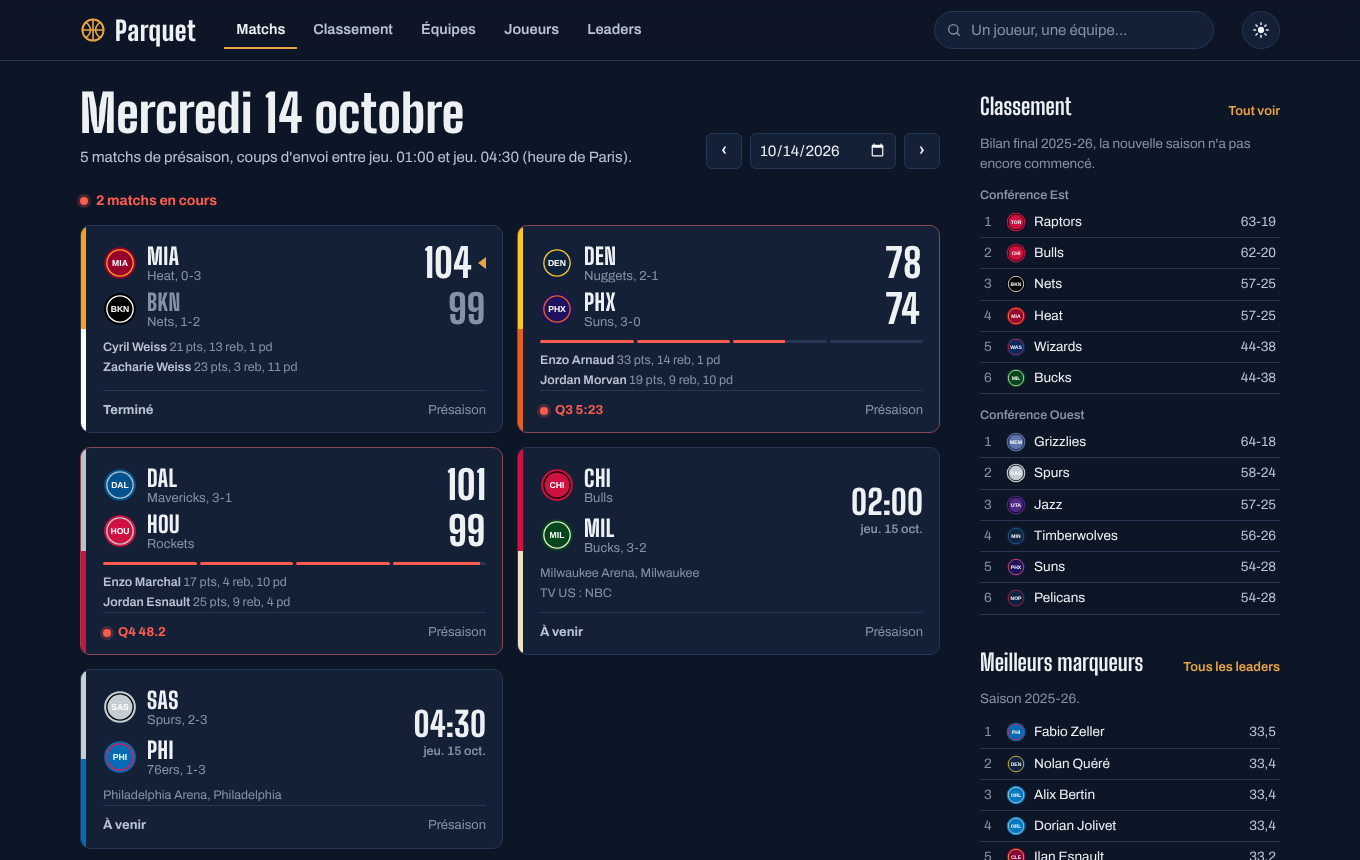
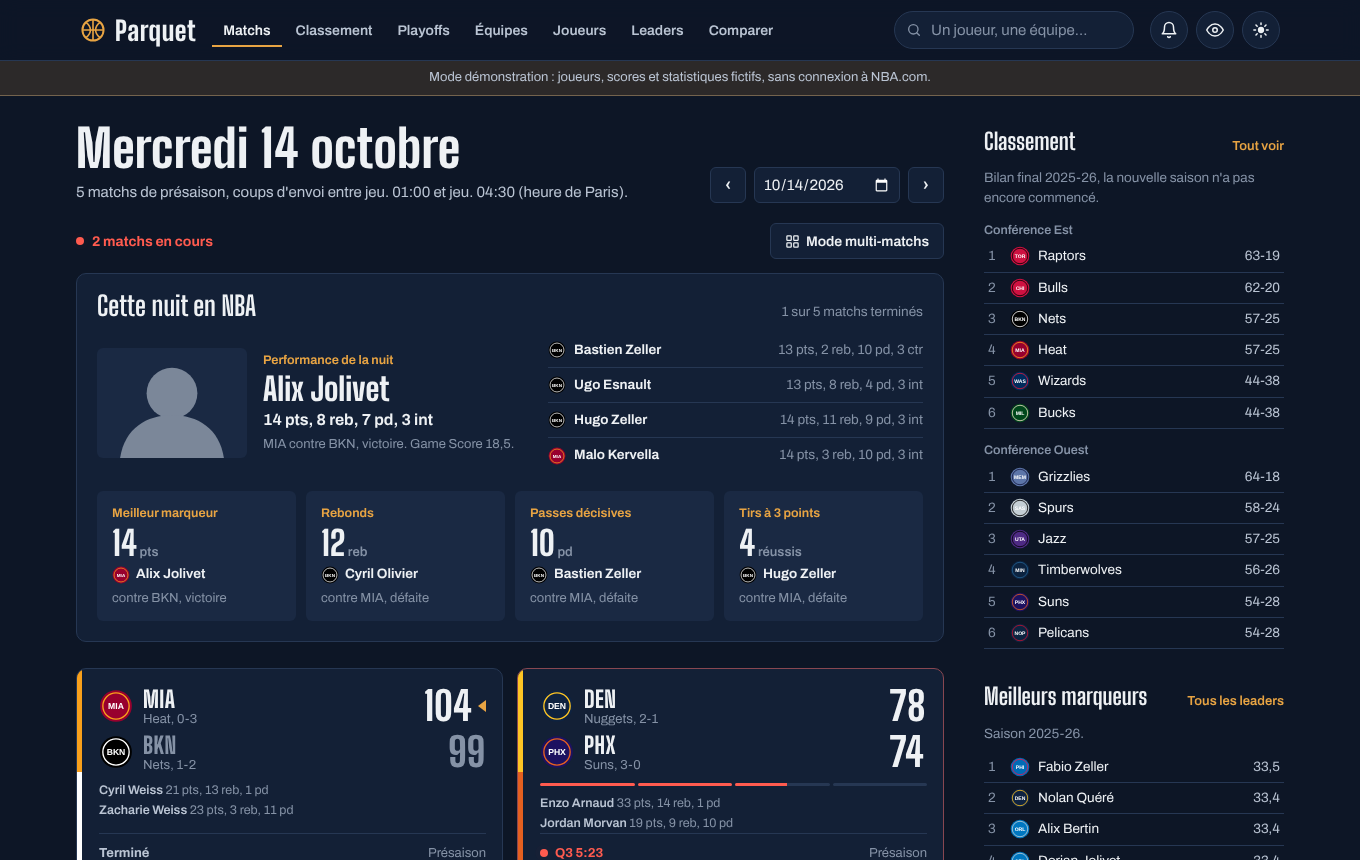
Documentation : README, guide et architecture à jour, nouvelles captures

diff --git a/README.md b/README.md
@@ -2,7 +2,9 @@
 
 **Un tableau de bord NBA en direct doublé d'une encyclopédie, en français, qui tourne sur ton ordinateur.**
 
-Parquet affiche les scores des matchs en temps réel, le détail de chaque rencontre (box score, fil des actions, carte des tirs) et une fiche complète pour les 30 franchises et les plus de 5 000 joueurs passés par la NBA depuis 1946. Toutes les données viennent des sources publiques de NBA.com et de Wikipédia, sans compte ni clé d'API.
+Parquet affiche les scores des matchs en temps réel, le détail de chaque rencontre (box score, scénario du match, fil des actions, carte des tirs) et une fiche complète pour les 30 franchises et les plus de 5 000 joueurs passés par la NBA depuis 1946. Toutes les données viennent des sources publiques de NBA.com et de Wikipédia, sans compte ni clé d'API.
+
+Pour l'essayer sans connexion : `python run.py --demo` lance l'application sur des données fictives.
 
 ![Page des matchs avec deux rencontres en direct](docs/captures/01-matchs.png)
 
@@ -12,34 +14,43 @@ Parquet affiche les scores des matchs en temps réel, le détail de chaque renco
 
 **Suivi des matchs**
 - Scores de la journée rafraîchis automatiquement pendant les matchs, avec l'avancement de chaque quart-temps.
+- « Cette nuit en NBA » : au réveil, le résumé des matchs de la nuit (performance de la nuit selon le Game Score, meilleurs marqueurs, rebondeurs et passeurs, triples-doubles, match le plus serré, plus large victoire, prolongations).
 - Horaires convertis à l'heure de Paris, navigation de jour en jour jusque dans les saisons passées.
-- Page de match : score par quart-temps, duel statistique des deux équipes, meilleurs joueurs, box score complet, fil des actions filtrable et carte des tirs.
+- Page de match : score par quart-temps, scénario du match (courbe de l'écart au score, plus gros écarts, changements de leader), duel statistique des deux équipes, meilleurs joueurs, box score complet, fil des actions filtrable et carte des tirs.
+- Mode multi-matchs : plusieurs rencontres en direct côte à côte, en plein écran, avec les dernières actions et un signal des fins de match serrées.
 - Avant le coup d'envoi : forme récente des deux équipes. La page bascule seule en mode direct au début du match.
 
 **Encyclopédie et analyse**
 - Équipes : effectif, staff, calendrier, résumé historique, titres, maillots retirés, membres du Hall of Fame, victoires saison par saison.
-- Joueurs : recherche dans toute l'histoire de la ligue, filtres (équipe, poste, pays), biographie, palmarès, parcours, records, statistiques de carrière en graphique et en tableau, derniers matchs.
+- Équipes : export du calendrier de la saison au format `.ics`, à importer dans Google Agenda, Apple Calendrier ou Outlook.
+- Joueurs : recherche dans toute l'histoire de la ligue, filtres (équipe, poste, pays), biographie, palmarès, parcours, records, statistiques de carrière par match, sur 36 minutes ou en totaux, stats avancées (adresse réelle TS%, adresse effective eFG%, passes par balle perdue, part de tirs à 3 points), derniers matchs.
 - Comparateur de joueurs : duel face-à-face (carrière, saison actuelle, playoffs), comparaison détaillée des palmarès, courbes de trajectoire superposées saison par saison (S1, S2, ...) et sélection rapide de duels légendaires.
 - Tableau des playoffs : arbre complet de la post-saison NBA (1er tour, demi-finales, finales de conférence, Finales NBA), statut et avancement des séries (4-1, 4-2...), détail match par match avec scores, lien vers les box scores et sélecteur de saisons historiques.
 - Classement par conférence et leaders statistiques de la saison.
 
 **Confort et mobilité**
 - Recherche instantanée accessible partout (touche `/`).
-- Alertes et notifications en direct : notifications navigateur et toasts in-app pour le coup d'envoi et le score final des équipes favorites, ou lorsqu'un match entre dans le *Clutch Time* (écart ≤ 5 points au 4e quart-temps).
-- Mode anti-spoiler pour masquer les scores et regarder les matchs en différé sans révélation involontaire (révélation match par match ou globale).
-- Progressive Web App (PWA) : installable sur smartphone (iOS/Android) ou PC/Mac, icône d'application dédiée, affichage plein écran autonome, gestion des encoches et mise en cache locale des ressources statiques.
+- Alertes en direct, tant qu'un onglet Parquet est ouvert : coup d'envoi et résultat des équipes favorites, fins de match serrées selon la définition de la NBA (5 dernières minutes, 5 points d'écart ou moins). Notifications système quand la connexion le permet, alertes dans la page sinon ; une alerte n'est jamais envoyée deux fois.
+- Mode anti-spoiler pour regarder les matchs en différé : scores, box score, fil des actions, résumé de la nuit, champion des playoffs et alertes restent masqués jusqu'à ce qu'on les révèle, match par match ou d'un coup. Les révélations sont retenues pendant la session.
+- Progressive Web App (PWA) : installable sur ordinateur, et sur téléphone via une connexion sécurisée (voir le guide), fonctionnement hors ligne avec les dernières données connues.
 - Équipes favorites mises en avant, thème sombre ou clair adapté aux préférences système.
 - Page « État des sources » pour diagnostiquer un problème de connexion.
 
 ## Captures
 
-| Match en direct | Carte des tirs |
+| Cette nuit en NBA | Scénario du match |
 | --- | --- |
-| ![Résumé d'un match en direct](docs/captures/02-match-resume.png) | ![Carte des tirs des deux équipes](docs/captures/03-carte-des-tirs.png) |
-| **Statistiques d'un joueur** | **Classement** |
-| ![Courbe de carrière d'un joueur](docs/captures/04-fiche-joueur.png) | ![Classement de la conférence Est](docs/captures/05-classement.png) |
+| ![Résumé d'une journée de matchs](docs/captures/02-resume-de-la-nuit.png) | ![Courbe de l'écart au score d'un match](docs/captures/03-scenario-du-match.png) |
+| **Carte des tirs** | **Multi-matchs** |
+| ![Carte des tirs des deux équipes](docs/captures/04-carte-des-tirs.png) | ![Plusieurs matchs en direct côte à côte](docs/captures/05-multi-matchs.png) |
+| **Arbre des playoffs** | **Statistiques d'un joueur** |
+| ![Arbre complet des playoffs](docs/captures/06-playoffs.png) | ![Courbe de carrière et stats avancées d'un joueur](docs/captures/07-fiche-joueur.png) |
+| **Comparateur** | **Mode anti-spoiler** |
+| ![Face-à-face statistique de deux joueurs](docs/captures/08-comparateur.png) | ![Scores masqués sur la page des matchs](docs/captures/09-anti-spoiler.png) |
 | **Fiche d'équipe, thème clair** | **Sur téléphone** |
-| ![Fiche d'une équipe en thème clair](docs/captures/06-equipe-theme-clair.png) | <img src="docs/captures/07-mobile.png" alt="Page des matchs sur téléphone" width="260"> |
+| ![Fiche d'une équipe en thème clair](docs/captures/10-equipe-theme-clair.png) | <img src="docs/captures/11-mobile.png" alt="Page des matchs sur téléphone" width="260"> |
+
+Les captures sont générées automatiquement à partir du mode démo : `python scripts/captures.py`.
 
 ## Stack technique
 
@@ -89,11 +100,15 @@ Le navigateur ne parle qu'au serveur local, qui interroge les sources, normalise
 
 **Le bon article Wikipédia.** Plusieurs joueurs portent le même nom. Plutôt qu'une recherche textuelle, Parquet interroge Wikidata avec l'identifiant NBA.com du joueur (propriété P3647) pour trouver l'article exact, en français s'il existe.
 
-**Visualisation.** Courbe de carrière avec réticule et infobulle, colonnes de victoires par saison, duel des équipes en barres opposées, carte des tirs dessinée dans le système de coordonnées de la NBA (dixièmes de pied, panier en origine). Les couleurs d'équipe sont choisies selon leur contraste avec le fond, et deux équipes aux couleurs trop proches sont différenciées (distance mesurée dans l'espace OKLab).
+**Visualisation.** Courbe de carrière avec réticule et infobulle, scénario du match en escalier (l'écart reste constant jusqu'au panier suivant) coloré par équipe de part et d'autre de l'égalité, colonnes de victoires par saison, duel des équipes en barres opposées, carte des tirs dessinée dans le système de coordonnées de la NBA (dixièmes de pied, panier en origine). Les couleurs d'équipe sont choisies selon leur contraste avec le fond, et deux équipes aux couleurs trop proches sont différenciées (distance mesurée dans l'espace OKLab).
 
 **Localisation.** Dates et nombres au format français, tailles en mètres, poids en kilos, postes, récompenses et indicateurs de classement traduits, horaires à l'heure locale.
 
-**Sécurité et accessibilité.** Les textes issus des sources sont toujours insérés comme du texte (jamais via `innerHTML`). Le serveur n'écoute que sur la machine locale par défaut et refuse toute sortie du dossier `web/`. Navigation au clavier, focus visible, mouvements réduits respectés.
+**Mode démo et tests de bout en bout.** Un module de données fictives reproduit fidèlement la structure des réponses de NBA.com (scores en direct, box scores, actions, carrières, playoffs…), avec un générateur à graine fixe. Il permet d'essayer Parquet hors ligne, de faire tourner les tests d'interface dans un vrai navigateur et de régénérer les captures de cette page.
+
+**Calendrier et notifications.** Le calendrier d'une équipe est exporté au format iCalendar (RFC 5545 : lignes repliées à 75 octets, échappement, horaires en UTC convertis par l'agenda). Les notifications tiennent compte des contraintes des navigateurs : elles ne sont autorisées que sur une connexion sécurisée, ce que l'interface détecte pour expliquer la marche à suivre.
+
+**Sécurité et accessibilité.** Les textes issus des sources sont toujours insérés comme du texte (jamais via `innerHTML`). Le serveur n'écoute que sur la machine locale par défaut (l'accès depuis le téléphone est une option explicite) et refuse toute sortie du dossier `web/`. Navigation au clavier, focus visible, mouvements réduits respectés.
 
 ## Lancer le projet
 
@@ -104,17 +119,24 @@ python -m pip install -r requirements.txt
 python run.py
 ```
 
-L'application s'ouvre sur `http://localhost:8765/`. Sous Windows et macOS, les lanceurs `lancer.bat` et `lancer.command` créent l'environnement Python et démarrent tout en un double-clic. Le [guide d'utilisation](docs/GUIDE-UTILISATEUR.md) détaille l'installation, l'accès depuis un téléphone et le dépannage.
+L'application s'ouvre sur `http://localhost:8765/`. Sous Windows et macOS, les lanceurs `lancer.bat` et `lancer.command` créent l'environnement Python et démarrent tout en un double-clic ; `lancer-telephone.bat` et `lancer-telephone.command` font de même en rendant Parquet accessible depuis le téléphone. Le [guide d'utilisation](docs/GUIDE-UTILISATEUR.md) détaille l'installation, l'accès depuis un téléphone et le dépannage.
 
-Options de `run.py` : `--port`, `--lan` (accès depuis le réseau local), `--no-browser`, `--diagnostic` (teste les sources puis s'arrête), `--vider-cache`.
+Options de `run.py` : `--port`, `--lan` (accès depuis le Wi-Fi de la maison), `--demo` (données fictives, sans connexion), `--no-browser`, `--diagnostic` (teste les sources puis s'arrête), `--vider-cache`.
 
 ## Tests
 
 ```bash
-python -m unittest discover -s tests -t . -v
+python -m unittest discover -s tests -t . -v        # tests unitaires (sans réseau)
+
+pip install playwright && python -m playwright install chromium
+python -m unittest tests.test_ui -v                 # tests d'interface dans Chromium
 ```
 
-Les tests couvrent la mise en forme des données (à partir d'échantillons au format réel de NBA.com), la détection des paniers dans le fil des actions et le comportement du cache, y compris le repli sur des données périmées. Ils tournent sans accès réseau et sont lancés par GitHub Actions sur Python 3.9, 3.11 et 3.13.
+Les tests unitaires couvrent la mise en forme des données (à partir d'échantillons au format réel de NBA.com), la détection des paniers, l'arbre des playoffs et les têtes de série issues du play-in, le résumé d'une journée, les stats avancées, l'export iCalendar, le cache (y compris le repli sur des données périmées) et la cohérence du mode démo.
+
+Les tests d'interface lancent le serveur en mode démo et pilotent un vrai navigateur : affichage des matchs et du résumé, onglets d'un match, mode anti-spoiler (masquage et mémoire des révélations), arbre des playoffs replié, stats avancées, comparateur (chaque fiche chargée une seule fois), export du calendrier, multi-matchs et absence de défilement horizontal sur téléphone.
+
+GitHub Actions lance les tests unitaires sur Python 3.9, 3.11 et 3.13, et les tests d'interface dans Chromium.
 
 ## Organisation du code
 
@@ -127,11 +149,13 @@ parquet-nba/
 │   ├── net.py              accès réseau : en-têtes, cadence, gestion des erreurs
 │   ├── cache.py            cache mémoire + SQLite avec repli sur données périmées
 │   ├── wiki.py             biographies via Wikidata et Wikipédia
+│   ├── demo.py             données de démonstration (mode --demo, tests, captures)
 │   └── teams_meta.py       les 30 franchises (couleurs, conférences, articles)
 ├── web/                    interface
-│   ├── index.html, css/, fonts/
-│   └── js/                 routeur, composants, graphiques SVG, une vue par page
-├── tests/                  tests unitaires
+│   ├── index.html, manifest.webmanifest, sw.js (PWA), css/, fonts/, img/
+│   └── js/                 routeur, composants, graphiques SVG, anti-spoiler, alertes, une vue par page
+├── tests/                  tests unitaires et tests d'interface (Playwright)
+├── scripts/captures.py     régénère les captures de la documentation
 └── docs/                   guide d'utilisation, architecture, captures
 ```
 
@@ -146,7 +170,6 @@ Parquet est un projet personnel indépendant, sans lien avec la NBA ni ses équi
 
 ## Pistes d'amélioration
 
-- Mode multilingue (anglais/espagnol) pour les statistiques et récompenses.
-- Widget de bureau ou résumé compact pour suivre les scores en arrière-plan.
-- Statistiques avancées (True Shooting %, Net Rating, Pace, Shot chart comparé).
-- Graphiques avancés et cartes de tir comparées.
+- Notifications même quand Parquet est fermé (notifications push, qui demandent un serveur en ligne).
+- Mode multilingue (anglais, espagnol) pour les statistiques et les récompenses.
+- Statistiques d'équipe avancées (Net Rating, Pace) et cartes de tirs comparées entre deux joueurs.

diff --git a/docs/GUIDE-UTILISATEUR.md b/docs/GUIDE-UTILISATEUR.md
@@ -2,9 +2,10 @@
 
 Ton tableau de bord et ton encyclopédie NBA personnels, en français.
 
-- **Matchs** : les scores de la journée qui se mettent à jour tout seuls pendant les matchs, puis pour chaque match le score par quart-temps, le duel des équipes, le box score complet, le fil des actions et la carte des tirs. Les horaires sont à l'heure de Paris, et tu peux remonter dans le temps jour par jour.
-- **Équipes** : les 30 franchises avec leur effectif, leur staff, leur calendrier, leur histoire, leurs titres, les maillots retirés, leurs membres du Hall of Fame et leurs victoires saison par saison.
-- **Joueurs** et **Comparateur** : tous les joueurs passés par la NBA depuis 1946, avec leur fiche (biographie, palmarès, parcours, records, statistiques de carrière, derniers matchs) et un outil de comparaison face-à-face (duel statistique, palmarès comparé, graphiques de trajectoire saison par saison).
+- **Matchs** : les scores de la journée qui se mettent à jour tout seuls pendant les matchs, et au réveil le résumé « Cette nuit en NBA ». Pour chaque match : score par quart-temps, scénario du match (l'écart au score minute par minute), duel des équipes, box score complet, fil des actions et carte des tirs. Les horaires sont à l'heure de Paris, et tu peux remonter dans le temps jour par jour.
+- **Multi-matchs** : plusieurs matchs en direct côte à côte, en plein écran si tu veux, pour les grosses soirées.
+- **Équipes** : les 30 franchises avec leur effectif, leur staff, leur calendrier (exportable dans ton agenda), leur histoire, leurs titres, les maillots retirés, leurs membres du Hall of Fame et leurs victoires saison par saison.
+- **Joueurs** et **Comparateur** : tous les joueurs passés par la NBA depuis 1946, avec leur fiche (biographie, palmarès, parcours, records, statistiques de carrière par match, sur 36 minutes ou en totaux, stats avancées, derniers matchs) et un outil de comparaison face-à-face (duel statistique, palmarès comparé, graphiques de trajectoire saison par saison).
 - **Classement**, **leaders** et **Playoffs** : classement par conférence, leaders statistiques et l'arbre complet des playoffs NBA (séries 1er tour, demi-finales, finales de conférence, Finales NBA et détail de chaque rencontre).
 - Logos et photos officiels, thème sombre ou clair, équipes favorites mises en avant.
 
@@ -34,33 +35,40 @@ Le premier lancement prépare un environnement Python dans le dossier (une minut
 
 **Laisse la fenêtre noire ouverte** pendant que tu utilises Parquet ; la fermer arrête l'application.
 
+Pour découvrir l'application sans connexion, ou si NBA.com ne répond pas chez toi, lance-la en **mode démo** : `.\lancer.bat --demo` (Windows) ou `bash lancer.command --demo` (Mac, Linux). Les équipes sont les vraies, mais les joueurs, les scores et les statistiques sont fictifs.
+
 ## Astuces
 
 - Appuie sur `/` n'importe où pour chercher un joueur ou une équipe.
 - Depuis la fiche d'un joueur, clique sur « Comparer ce joueur » pour lancer un face-à-face immédiat avec un rival.
 - Ajoute tes équipes favorites (bouton en haut de leur page) : leurs matchs passent en premier.
-- Clique sur l'icône de cloche dans la barre du haut pour activer les alertes (coup d'envoi et résultat de tes favoris, alertes de fin de match serrée en Clutch Time).
-- Le bouton en forme d'œil active le mode anti-spoiler pour masquer les scores avant visionnage.
+- Clique sur la cloche dans la barre du haut pour activer les alertes : coup d'envoi et résultat de tes favoris, fins de match serrées (5 dernières minutes avec 5 points d'écart ou moins). Les alertes fonctionnent **tant qu'un onglet Parquet est ouvert**, même en arrière-plan ; une alerte n'est jamais envoyée deux fois.
+- Le bouton en forme d'œil active le mode anti-spoiler, pour regarder un match en différé : les scores, le box score, le fil des actions, le résumé de la nuit, le champion des playoffs et le contenu des alertes restent masqués jusqu'à ce que tu cliques sur « Révéler ». Ce que tu as révélé le reste jusqu'à la fermeture de l'onglet.
+- Quand des matchs sont en cours, le bouton « Mode multi-matchs » de la page d'accueil les affiche côte à côte.
+- Dans l'onglet *Calendrier* d'une équipe, « Ajouter à mon agenda » télécharge un fichier `.ics` à importer dans Google Agenda, Apple Calendrier ou Outlook. Les horaires s'affichent à l'heure de ton agenda ; les scores n'y figurent pas.
 - Le bouton en forme de lune ou de soleil change le thème.
 
-### Sur votre téléphone Android et installation en application (PWA)
+### Sur ton téléphone
 
-1. **Sur votre ordinateur** : double-cliquez simplement sur `lancer.bat`.
-   La fenêtre noire affiche directement l'adresse pour votre smartphone :
-   `Sur votre smartphone Android (même Wi-Fi) : http://192.168.x.x:8765/`
-   *(Si Windows vous demande une autorisation pare-feu pour les réseaux privés, acceptez).*
+Par défaut, seul ton ordinateur peut ouvrir Parquet. Pour l'utiliser aussi sur ton téléphone :
 
-2. **Sur votre téléphone Android** :
-   - Assurez-vous d'être connecté au même réseau Wi-Fi que l'ordinateur.
-   - Ouvrez **Google Chrome** et tapez l'adresse affichée (ex. `http://192.168.1.5:8765`).
+1. **Sur l'ordinateur**, double-clique sur **`lancer-telephone.bat`** (Windows) ou **`lancer-telephone.command`** (Mac). La fenêtre noire affiche l'adresse à ouvrir sur le téléphone, du type `http://192.168.1.20:8765/`. Si Windows demande une autorisation du pare-feu, accepte pour les **réseaux privés** uniquement.
+2. **Sur le téléphone**, connecté au même Wi-Fi que l'ordinateur, ouvre cette adresse dans Chrome (Android) ou Safari (iPhone).
 
-3. **Installer Parquet comme une vraie application :**
-   - Appuyez sur le menu de Chrome (les 3 points verticaux en haut à droite).
-   - Choisissez **« Installer l'application »** (ou « Ajouter à l'écran d'accueil »).
-   - Parquet s'installe sur votre écran d'accueil avec son icône officielle, sans barre de navigation et en plein écran comme une application du Play Store !
+N'utilise ce mode que sur le Wi-Fi de la maison : sur un réseau public, n'importe quel appareil connecté pourrait ouvrir ton Parquet.
 
-- **Sur iPhone / iPad (Safari)** : ouvrez l'adresse dans Safari, appuyez sur le bouton Partager puis sélectionnez *Sur l'écran d'accueil*.
-- **Sur PC / Mac (Chrome, Edge)** : cliquez sur l'icône d'installation dans la barre d'adresse pour ouvrir Parquet dans sa propre fenêtre d'application autonome.
+#### Installer Parquet comme une application
+
+- **Sur ordinateur (Chrome, Edge)** : clique sur l'icône d'installation dans la barre d'adresse. Parquet s'ouvre alors dans sa propre fenêtre.
+- **Sur téléphone**, une limite des navigateurs s'applique : l'installation complète et les notifications ne sont autorisées que sur une connexion sécurisée (HTTPS), ce que n'est pas une adresse en `http://192.168.…`. Sans réglage, tu peux toujours ajouter un raccourci sur l'écran d'accueil (menu de Chrome, *Ajouter à l'écran d'accueil* ; sur iPhone, bouton Partager, *Sur l'écran d'accueil*), et les alertes s'affichent dans la page.
+
+Pour avoir la vraie application et les notifications sur un téléphone Android, autorise l'adresse de ton ordinateur dans Chrome :
+
+1. Ouvre `chrome://flags/#unsafely-treat-insecure-origin-as-secure` dans Chrome sur le téléphone.
+2. Dans le champ, saisis l'adresse affichée par la fenêtre noire (par exemple `http://192.168.1.20:8765`), puis passe l'option sur *Enabled*.
+3. Touche *Relaunch* pour relancer Chrome, rouvre Parquet, puis menu de Chrome, *Installer l'application*.
+
+Le panneau des alertes (la cloche) rappelle ces étapes quand la connexion n'est pas sécurisée. Sur iPhone, ce réglage n'existe pas : il faudrait servir Parquet en HTTPS, par exemple avec [Tailscale](https://tailscale.com/kb/1153/enabling-https), ce qui sort du cadre de ce guide.
 
 ## Si quelque chose ne s'affiche pas
 
@@ -70,6 +78,7 @@ Ouvre **État des sources** (lien en bas de chaque page). Le test indique si NBA
 - NBA.com limite parfois les requêtes trop rapprochées : attends quelques minutes.
 - Quand NBA.com ne répond pas, Parquet affiche les dernières données gardées en mémoire et le signale par un bandeau.
 - Pour repartir de zéro, supprime le dossier `data` (ou lance `.\lancer.bat --vider-cache`).
+- Après une mise à jour de Parquet, l'application installée récupère les nouveaux fichiers dès le lancement suivant. Si l'affichage semble ancien, recharge la page une fois.
 
 Tu peux aussi tester les sources sans ouvrir l'application, depuis un terminal ouvert dans le dossier : `.\lancer.bat --diagnostic` (Windows) ou `bash lancer.command --diagnostic` (Mac/Linux).
 

diff --git a/docs/ARCHITECTURE.md b/docs/ARCHITECTURE.md
@@ -57,6 +57,10 @@ Toutes les réponses de l'API ont la forme `{"data": …, "meta": {"fetchedAt": 
 | `GET /api/player/{id}/gamelog` | Derniers matchs (saison, présaison ou saison précédente) | `playergamelog` |
 | `GET /api/player/{id}/bio` | Biographie Wikipédia | Wikidata (P3647) puis Wikipédia |
 | `GET /api/leaders?season=AAAA-AA` | Top 10 par catégorie | `leaguedashplayerstats` |
+| `GET /api/playoffs?season=AAAA-AA` | Arbre des playoffs, séries et matchs (bascule sur la saison précédente avant les playoffs) | `commonplayoffseries`, `leaguegamefinder` |
+| `GET /api/recap?date=AAAA-MM-JJ` | Résumé d'une journée : Game Score, meilleurs par catégorie, triples-doubles, match le plus serré, plus large victoire, prolongations | box scores des matchs terminés |
+| `GET /api/team/{id}/calendar.ics` | Calendrier de la saison au format iCalendar (fichier à télécharger) | CDN calendrier |
+| `GET /api/status` | Version, saison, journée NBA, mode démo | Parquet |
 | `GET /api/diagnostic` | Test de chaque source | toutes |
 
 
@@ -73,6 +77,8 @@ Toutes les réponses de l'API ont la forme `{"data": …, "meta": {"fetchedAt": 
 | Fiche, carrière d'un joueur | 6 h |
 | Derniers matchs d'un joueur | 20 min |
 | Leaders | 1 h |
+| Playoffs | 1 h (saison en cours), 24 h (saisons passées) |
+| Résumé d'une journée | recalculé dès qu'un match se termine ; 6 h une fois tous les matchs terminés (mémoire seule) |
 | Histoire, palmarès, index des joueurs | 24 h |
 | Textes Wikipédia | 7 jours |
 
@@ -84,6 +90,10 @@ Le cache (`parquet/cache.py`) garde les entrées récentes en mémoire et toutes
 - **Cadence** : au plus deux requêtes simultanées vers `stats.nba.com`, espacées d'au moins 350 ms. Les paramètres sont envoyés triés, l'API y étant sensible.
 - **Bascule** : si le scoreboard du CDN est refusé, le CDN est mis de côté pendant 10 minutes et toutes les données de match passent par `stats.nba.com`.
 - **Ressources pas encore publiées** : un 403 du CDN sur le box score d'un match à venir n'est pas une erreur ; la page affiche l'avant-match et se met à jour seule au coup d'envoi.
+
+## Mode démonstration
+
+`python run.py --demo` remplace la fonction d'accès réseau de `net.py` par `parquet/demo.py`, qui répond à la place de NBA.com et de Wikipédia avec des données fictives au même format : scores en direct, box scores, fil des actions, calendrier, carrières, palmarès, classements, leaders, playoffs, biographies. Le générateur pseudo-aléatoire a une graine fixe : les données sont identiques à chaque lancement, ce qui permet les tests d'interface et la génération des captures. Les identifiants des joueurs fictifs ne correspondent à aucun vrai joueur, pour ne jamais associer la photo d'un joueur réel à des données inventées.
 
 ## Modèle de données normalisé
 
@@ -122,6 +132,12 @@ Les trois formats de match de NBA.com (scoreboard live, calendrier, `scoreboardv
 | `js/format.js` | Formats français : nombres, dates, tailles, postes, pays, statuts de match |
 | `js/teams.js` | Données des équipes, choix de couleurs lisibles (contraste, distance OKLab) |
 | `js/search.js` | Recherche globale (joueurs et équipes, sans accents) |
+| `js/spoiler.js` | Mode anti-spoiler : état global et mémoire de session des scores révélés |
+| `js/notifications.js` | Alertes de match (coup d'envoi, fin serrée selon la définition NBA, résultat), mémoire des alertes envoyées, détection des connexions non sécurisées |
+| `js/icons.js` | Icônes SVG |
+| `js/views/recap.js` | Bloc « Cette nuit en NBA » de la page d'accueil |
+| `js/views/multi.js` | Mode multi-matchs |
 | `js/views/*.js` | Une vue par page |
+| `sw.js` | Service worker : réseau d'abord, cache en secours hors ligne, cache d'API limité à 150 réponses, version par numéro de version |
 
 Les logos existent en deux versions sur le CDN de NBA.com, pour fond clair (`L`) et pour fond sombre (`D`) : l'interface choisit selon le thème et revient à la version claire si l'autre manque. Sur les bandeaux aux couleurs d'une équipe, le logo est posé sur une pastille claire pour rester lisible.
